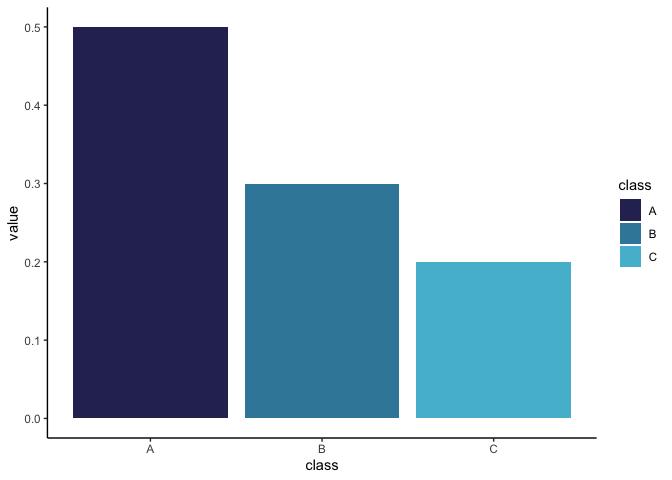
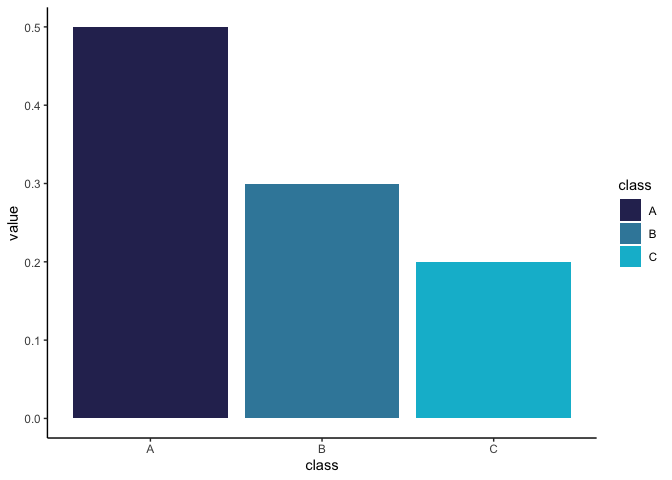
Adding code coverage

Changed region(s): [[0.5938, 0.5312, 0.875, 0.875], [0.9062, 0.5, 0.9688, 0.5625]]

diff --git a/README.md b/README.md
@@ -6,6 +6,8 @@
 <!-- badges: start -->
 
 [![pages-build-deployment](https://github.com/hwarden162/HGUTheme/actions/workflows/pages/pages-build-deployment/badge.svg)](https://github.com/hwarden162/HGUTheme/actions/workflows/pages/pages-build-deployment)
+[![Codecov test
+coverage](https://codecov.io/gh/hwarden162/HGUTheme/branch/main/graph/badge.svg)](https://app.codecov.io/gh/hwarden162/HGUTheme?branch=main)
 <!-- badges: end -->
 
 Unofficial ggplot2 themes for using the colour palette of the MRC HGU
@@ -49,7 +51,7 @@ These are then grouped into palettes that are also stored in functions:
 
 ``` r
 hgu_palette()
-#> [1] "#2D2E5F" "#3A88A9" "#54BBD2"
+#> [1] "#2D2E5F" "#3A88A9" "#00BAD2"
 ```
 
 For users’ convenience, various functions have been written that set
